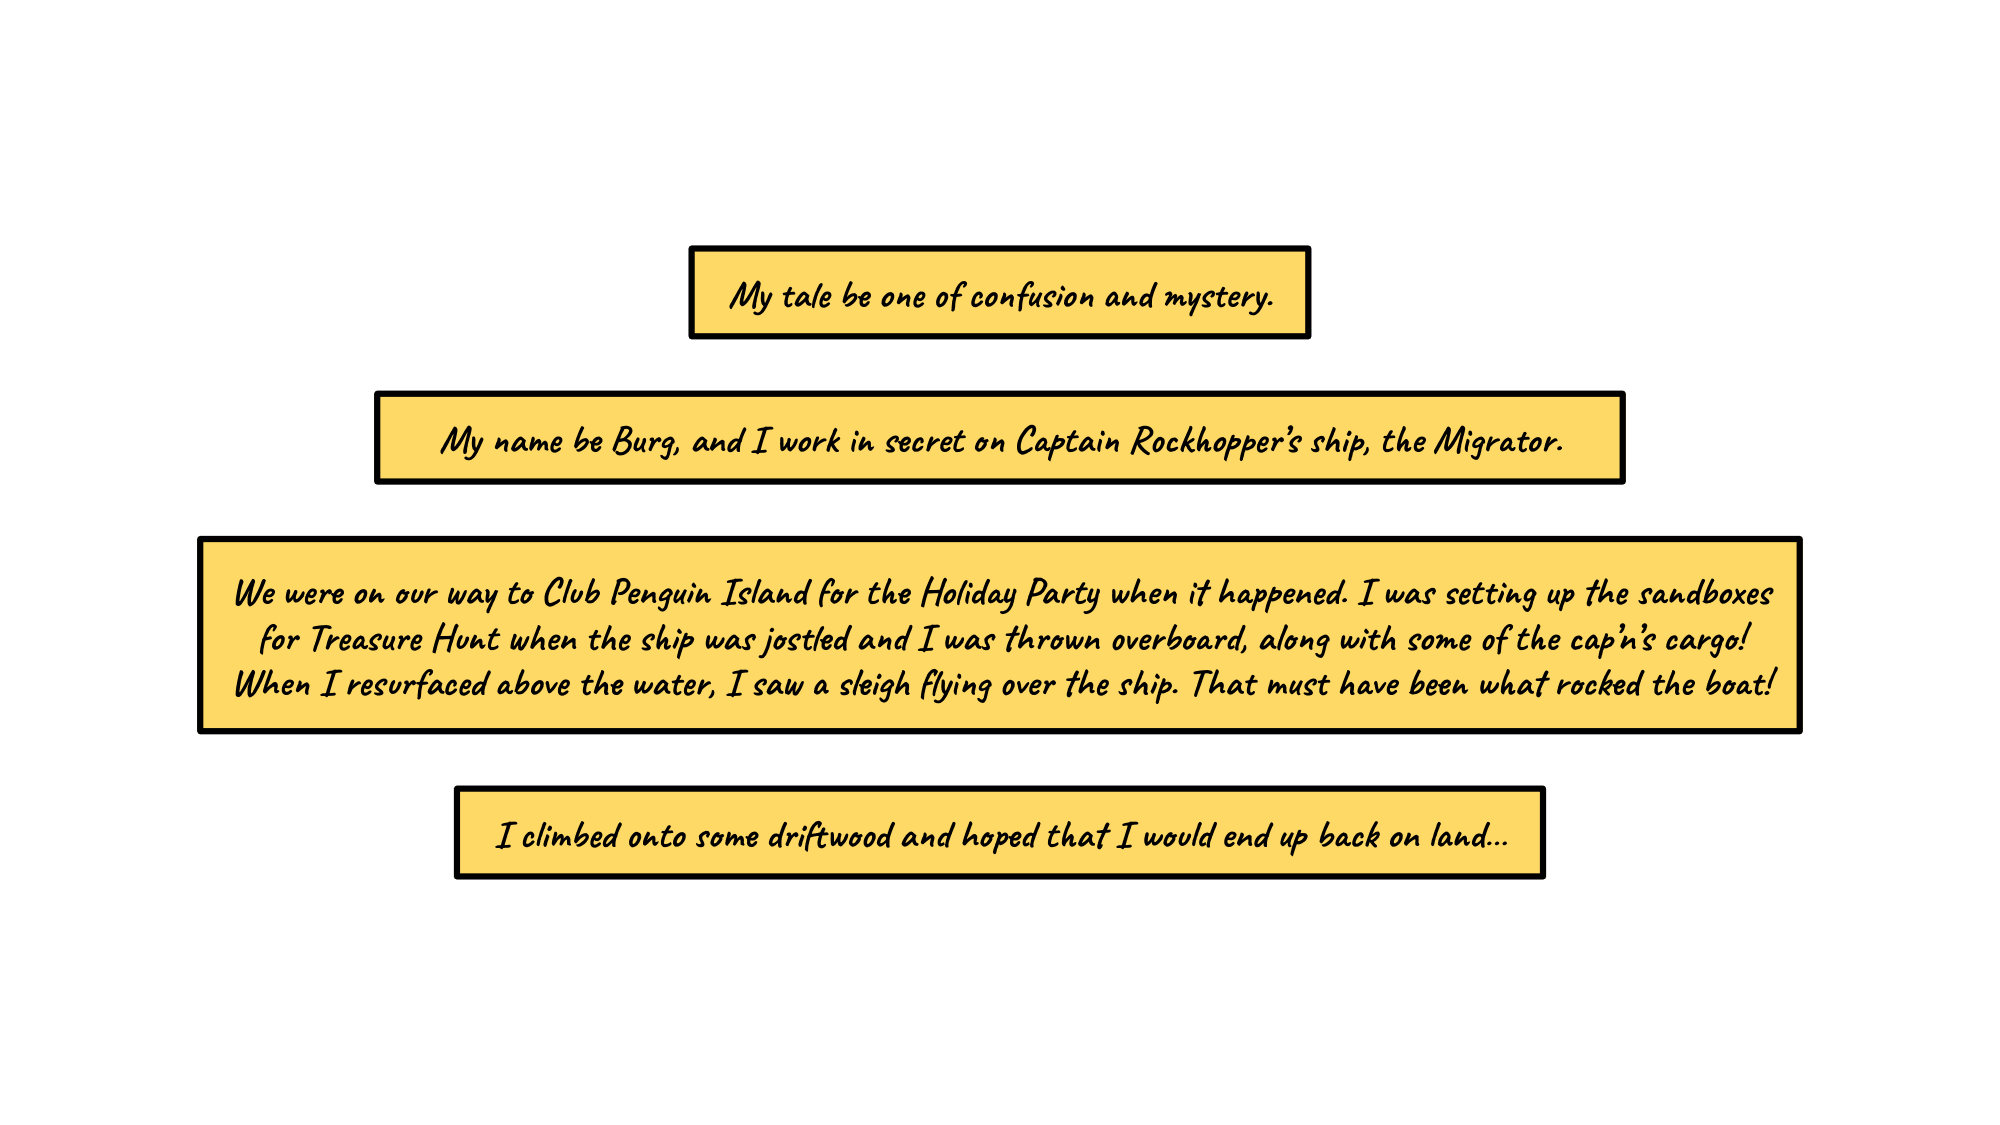
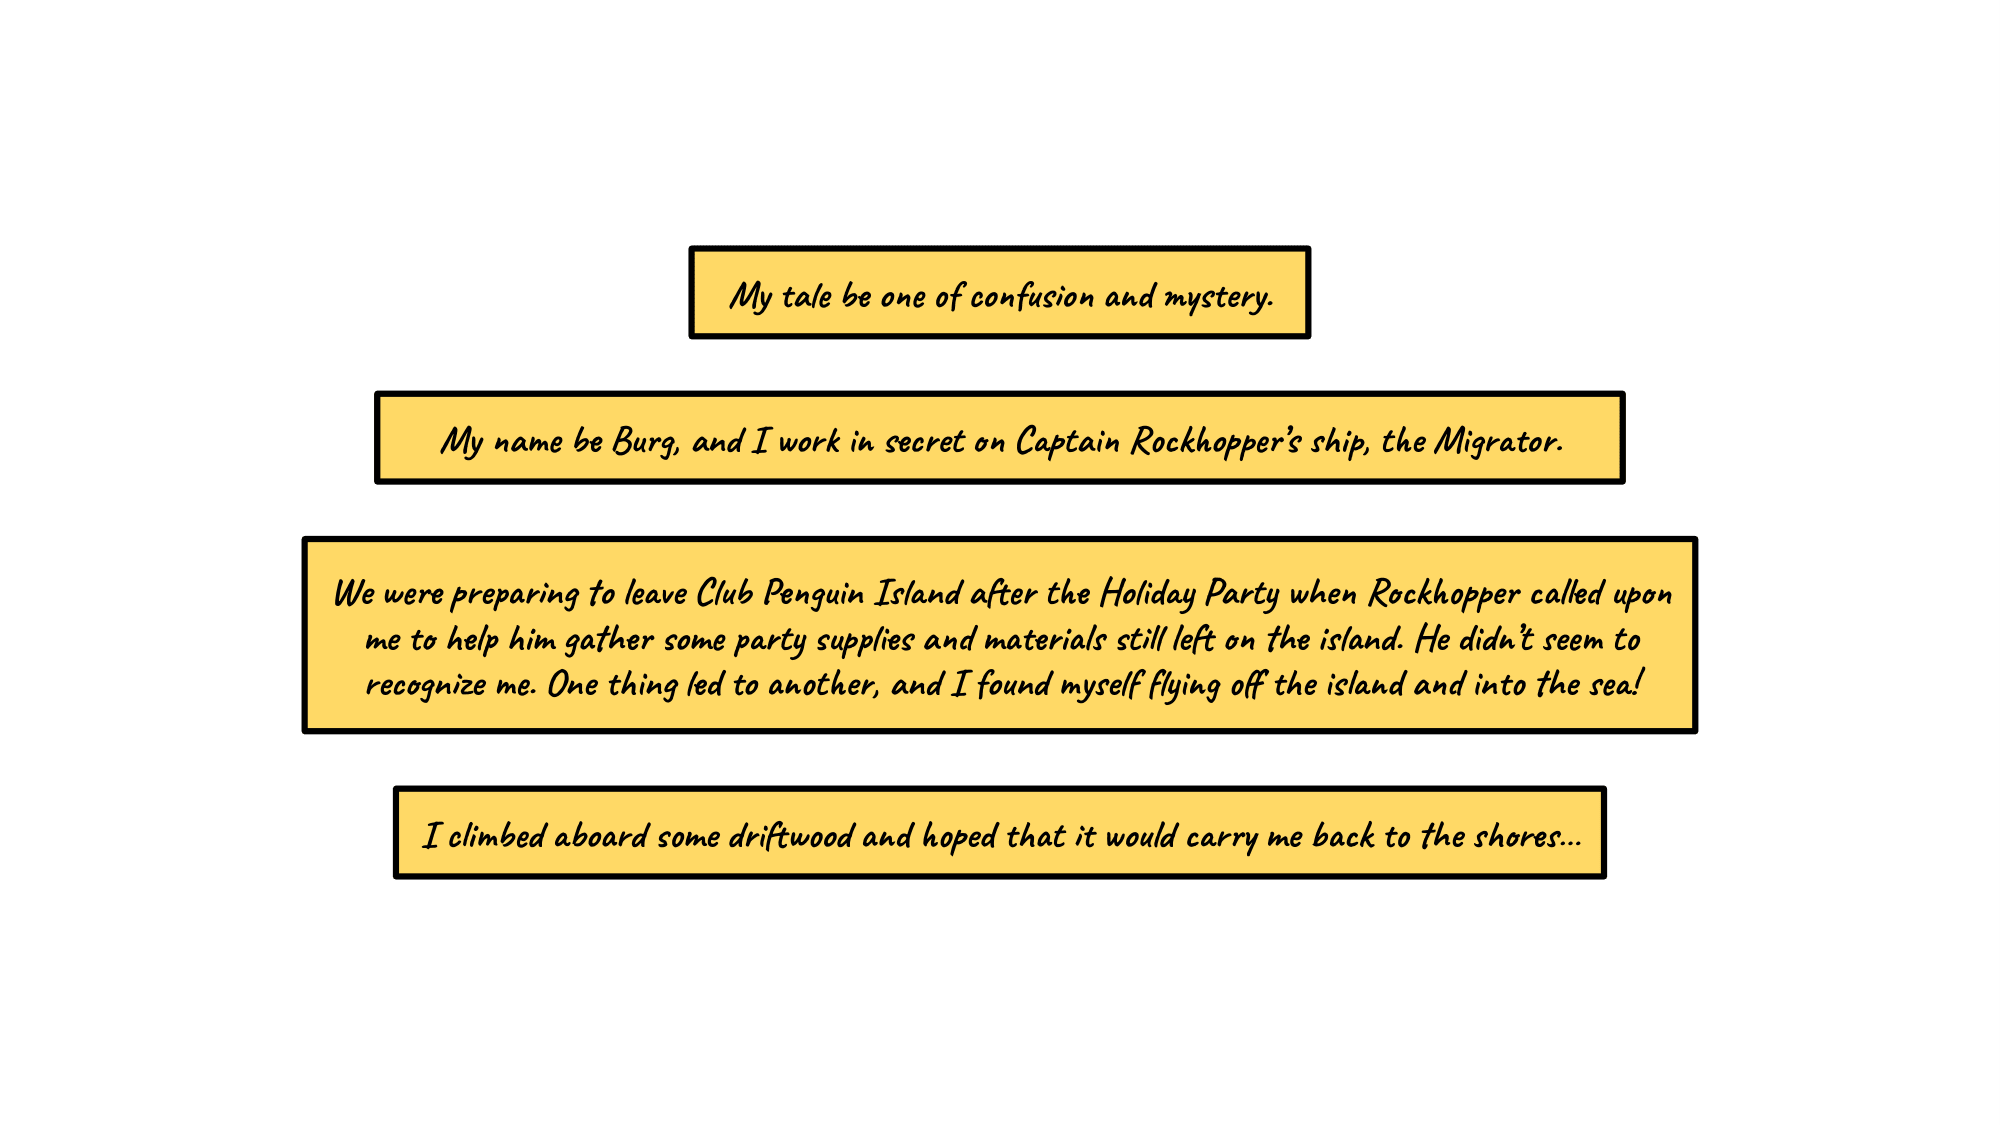
v0.1.10
- Updated the Burg’s First Scavenger Hunt page
- Added a History section to the About page
- Fixed lore inconsistency in the comic
- Finished instructional documentation
- Other minor tweaks

Changed region(s): [[0.093, 0.4667, 0.899, 0.6533], [0.186, 0.6844, 0.806, 0.8089]]

diff --git a/index.html b/index.html
@@ -50,24 +50,24 @@
           <ul class="nav navbar-nav">
             <li><a href="#" onclick="loadPage('home');">Home</a></li>
             <li><a href="#" onclick="loadPage('about');">About</a></li>
+            <li><a href="#" onclick="loadPage('fan-art');">Fan Art</a></li>
             <li class="dropdown">
               <a href="#" class="dropdown-toggle" data-toggle="dropdown" role="button" aria-haspopup="true" aria-expanded="false">Comics <span class="caret"></span></a>
               <ul class="dropdown-menu">
                 <li><a href="#" onclick="loadPage('comic'); loadComic(0);">Burg's Tales Issue #1 <span class="label label-success">New!</span></a></li>
               </ul>
             </li>
-            <li><a href="#" onclick="loadPage('fan-art');">Fan Art</a></li>
             <li class="dropdown">
               <a href="#" class="dropdown-toggle" data-toggle="dropdown" role="button" aria-haspopup="true" aria-expanded="false">Scavenger Hunts <span class="caret"></span></a>
               <ul class="dropdown-menu">
-                <li><a href="#" onclick="loadPage('feb2026');">February 2026 Scavenger Hunt <span class="label label-warning">Coming Soon!</span></a></li>
+                <li><a href="#" onclick="loadPage('feb2026');">Burg's First Scavenger Hunt <span class="label label-warning">Coming Soon!</span></a></li>
                 <li role="separator" class="divider"></li>
                 <li><a href="#" onclick="loadPage('jan2026');">Legacy Scavenger Hunt</a></li>
               </ul>
             </li>
             <li><a href="#" onclick="loadPage('postcards'); displayPostcards();">Your Postcards</a></li>
           </ul>
-        </div><!--/.nav-collapse -->
+        </div>
       </div>
     </nav>
 
@@ -82,7 +82,7 @@
             <div class="row">
               <div class="col-md-6">
                 <h2>Welcome!</h2>
-                <p class="lead p-savior">Welcome to Burg's Scavenger Hunt! This is a fun activity to play while waddling around <a href="https://play.cpzero.net/">Club Penguin Zero</a>. Burg lost some of Captain Rockhopper's cargo and needs your help to locate it! By using the clues provided, you will need to explore Club Penguin Island and identify the locations of his cargo. You cannot fail a hunt, so relax and have fun!</p>
+                <p class="lead p-savior">Welcome to Burg's Scavenger Hunt! This is a fun activity to play while waddling around <a href="https://play.cpzero.net/" target="_black">Club Penguin Zero</a>. Burg lost some of Captain Rockhopper's cargo and needs your help to locate it! By using the clues provided, you will need to explore Club Penguin Island and identify the locations of his cargo. You cannot fail a hunt, so relax, take your time, and have fun! Please keep in mind that this project is not affiliated with Club Penguin Zero and is made by fans.</p>
                 Scavenger Hunt Status<br>
                 <button type="button" class="btn btn-warning" onclick="">There are no active hunts.</button>
                 <br><br>
@@ -100,10 +100,23 @@
       <div class="page-main" id="page-about" hidden>
         <div class="title-area">
           <h1>About</h1><br>
-          <p class="lead p-savior">Burg's Scavenger Hunt was conceptualized in January of 2026 on the <a href="https://discord.gg/JdQA5J7SsZ">Zero Nation Discord server</a>. When scavenger hunts are available, players may start one on this website while exploring Club Penguin Island. The objective is to help Burg find all of the objects scattered across the island. Once you find them all, you win the game! You can find the latest scavenger hunts using the navigation bar at the top of the screen. This site was created using <a href="https://github.com/Samster68OW/burg-hunt">GitHub Pages</a>, <a href="https://getbootstrap.com/docs/3.4/">Bootstrap 3.4.1</a>, and <a href="https://www.glyphicons.com">Glyphicons</a>. It does not collect any user data, but stores a couple variables on the user's browser.</p>
+          <p class="lead p-savior">Burg's Scavenger Hunt was conceptualized in January of 2026 on the <a href="https://discord.gg/JdQA5J7SsZ" target="_black">Zero Nation Discord server</a>. When scavenger hunts are available, players may start one on this website while exploring Club Penguin Island. The objective is to help Burg find all of the objects scattered across the island. Once you find them all, you win the game! You can find the latest scavenger hunts using the navigation bar at the top of the screen. This site was created using GitHub Pages, <a href="https://getbootstrap.com/docs/3.4/" target="_black">Bootstrap 3.4.1</a>, and <a href="https://www.glyphicons.com" target="_black">Glyphicons</a>. It does not collect any user data, but stores a couple variables on the user's browser.</p>
           <p class="lead">The latest CPZero version this site recognizes is v1.0.5.7</p><br>
           <img src="images/site/about_screen_img.png" class="img-responsive img-savior" style="width:800px;" alt="Burg at the Beacon"><br><br>
+
+          <h2>The History of Burg's Hunts</h2><br>
+          <p class="lead p-savior">January 22nd, 2026: The first scavenger hunt image was made, and it was decided to make it an official event on Zero Nation. It was headed by samuel, Samster68, and Litdia. You can find the original hunt <a href="#" onclick="loadPage('jan2026');">here</a>.</p>
+          <p class="lead p-savior">January 30th, 2026: The first build of this site was made public online, missing a lot of its current features. It was not officially released or announced at this point.</p>
+          <p class="lead p-savior">February 12th, 2026: The first <a href="https://www.youtube.com/watch?v=OMqhPY9PAUk" target="_black">YouTube video</a> featuring Burg was released, setting up his story and introducing him to Zero Nation for the first time. The first comic was adjusted slightly to work with this storyline.</p>
+
           <img src="images/site/samster68.png" style="width:100px; height:auto;" alt="Samster68">
+        </div>
+      </div>
+      <div class="page-main" id="page-fan-art" hidden>
+        <div class="title-area">
+          <h1>Fan Art</h1><br>
+          <p class="lead">To be featured here, submit artwork or screenshots from your scavenger hunt on the <a href="https://discord.gg/JdQA5J7SsZ" target="_black">Zero Nation Discord server</a>!</p>
+          <div id="fanart-display-spot"></div>
         </div>
       </div>
       <div class="page-main" id="page-comic" hidden>
@@ -125,13 +138,6 @@
             </a>
           </div>
           <br><span id="comic-publish-spot">???</span>
-        </div>
-      </div>
-      <div class="page-main" id="page-fan-art" hidden>
-        <div class="title-area">
-          <h1>Fan Art</h1><br>
-          <p class="lead">To be featured here, submit artwork or screenshots from your scavenger hunt on the <a href="https://discord.gg/JdQA5J7SsZ">Zero Nation Discord server</a>!</p>
-          <div id="fanart-display-spot"></div>
         </div>
       </div>
       <div class="page-main" id="page-postcards" hidden>
@@ -178,16 +184,17 @@
       <div class="page-main" id="page-jan2026" hidden>
         <div class="title-area">
           <h1>Legacy Scavenger Hunt</h1><br>
-          <p class="lead p-savior">On January 21st, 2026, the image below was unofficially released on the <a href="https://discord.gg/JdQA5J7SsZ">Zero Nation Discord server</a>. This hunt was created during the <a href="https://cpzero.wiki/wiki/Winter_Party">2026 Winter Party</a>. It contains the original ideas for the scavenger hunt, including Burg himself. While this page is not used, it was left on the site to test the site's features. This hunt is not available and it is no longer canon.</p>
+          <p class="lead p-savior">On January 21st, 2026, the image below was unofficially released on the <a href="https://discord.gg/JdQA5J7SsZ" target="_black">Zero Nation Discord server</a>. This hunt was created during the <a href="https://cpzero.wiki/wiki/Winter_Party" target="_black">2026 Winter Party</a>. It contains the original ideas for the scavenger hunt, including Burg himself. While this page is not used, it was left on the site to test the site's features. This hunt is not available and it is no longer canon.</p>
           <br><img src="images/site/jan2026_scavenger_hunt.png" class="img-responsive img-savior" style="width:800px;" alt="Burg asking for help">
         </div>
       </div>
       <div class="page-main" id="page-feb2026" hidden>
         <div class="title-area">
-          <h1>February 2026 Scavenger Hunt</h1><br>
-          <p class="lead p-savior">Will be released on Friday, February 13th!</p><br>
+          <h1>Burg's First Scavenger Hunt</h1><br>
+          <p class="lead p-savior">Rockhopper has entrusted Burg to load his cargo back onto the Migrator, but he accidently left without him! Get caught up on Burg's misadventures by watching this event's trailer on <a href="https://www.youtube.com/watch?v=OMqhPY9PAUk" target="_black">YouTube</a>, and by reading one of the <a href="#" onclick="loadPage('comic'); loadComic(0);">comics</a>. Burg is looking for helpful penguins to help him find all of the items on his list scattered around Club Penguin Island. Good luck!</p><br>
           <button type="button" class="btn btn-warning" onclick="">This scavenger hunt is currently unavailable.</button><br>
-          Availability: Feb 13th<br><br><br>
+          Availability: 3pm PST on Feb 13th<br><br>
+          <br><img src="images/site/feb2026_hunt_trailer.png" class="img-responsive img-savior" style="width:800px;" alt="Trailer screengrab">
         </div>
       </div>
 

diff --git a/data/hunt-data.js b/data/hunt-data.js
@@ -51,12 +51,33 @@ const jan2026Event = {
 
 
 const feb2026Event = {
-    title: "February 2026 Scavenger Hunt",
+    title: "Burg's First Scavenger Hunt",
     imgSource: "feb2026",
     postcardCredit: "Samster68",
     style: 'free',
-    randomize: false,
-    itemList: [],
+    randomize: true,
+    itemList: [
+        {item:"A blue jellyfish", location:"Cave"},
+        {item:"", location:""},
+        {item:"", location:""},
+        {item:"", location:""},
+        {item:"", location:""},
+        {item:"", location:""},
+        {item:"", location:""},
+        {item:"", location:""},
+        {item:"", location:""},
+        {item:"", location:""},
+        {item:"", location:""},
+        {item:"", location:""},
+        {item:"", location:""},
+        {item:"", location:""},
+        {item:"", location:""},
+        {item:"", location:""},
+        {item:"", location:""},
+        {item:"", location:""},
+        {item:"", location:""},
+        {item:"", location:""},
+    ],
     roomList: [
         "Beach",
         "Beacon",

diff --git a/instructions.md b/instructions.md
@@ -2,11 +2,11 @@
 
 This document contains step-by-step instructions on how to add more content to the site following its pre-established formula. Below is a list of the featured sections:
 
-- [Adding more Fan Art](#add-fanart)
-- [Adding more Comics](#add-comics)
-- [Adding more Scavenger Hunts](#add-scavengerhunts)
+- [Adding Fan Art](#adding-fan-art)
+- [Adding Comics](#adding-comics)
+- [Adding Scavenger Hunts](#adding-scavenger-hunts)
 
-##  Adding more Fan Art
+##  Adding Fan Art
 
 1. Place the new image inside `images/fan-art`.
 2. Navigate to `data/fan-art-data.js`.
@@ -14,7 +14,7 @@ This document contains step-by-step instructions on how to add more content to t
 4. Update the fields inside the new element including `title` for the name of the art piece, `imgSource` for the name of the file itself, and `fanartCredit` to display the name of its creator.
 5. Remember to save!
 
-## Adding more Comics
+## Adding Comics
 
 ### Adding Comic Page Images and Data
 
@@ -37,7 +37,7 @@ This document contains step-by-step instructions on how to add more content to t
 4. I also recommend updating the Home Page to reflect the new comic strip.
 5. Remember to save!
 
-## Adding more Scavenger Hunts
+## Adding Scavenger Hunts
 
 ### Creating the Scavenger Hunt's Data
 
@@ -60,4 +60,12 @@ This document contains step-by-step instructions on how to add more content to t
 
 ### Creating the Scavenger Hunt's Page
 
-- TODO
+1. Search `index.html` for a div with an id of `page-feb2026`.
+2. Copy this entire element and use it as a template. It needs to be pasted elsewhere in the document.
+3. Change `feb2026` to something else. We'll call it the huntID.
+4. Customize the page however you see fit. Remember to add a button with `onclick="startHunt(n);"` so that users can access the scavenger hunt.
+5. To add the scavenger hunt to the dropdown, search for `loadPage('feb2026')` in `index.html`.
+2. Once you find the lines containing the dropdown items, copy one and fill in your information.
+3. The n value in the `loadPage(n)` function should be the huntID.
+4. I also recommend updating the Home Page to reflect the new scavenger hunt.
+5. Remember to save!
